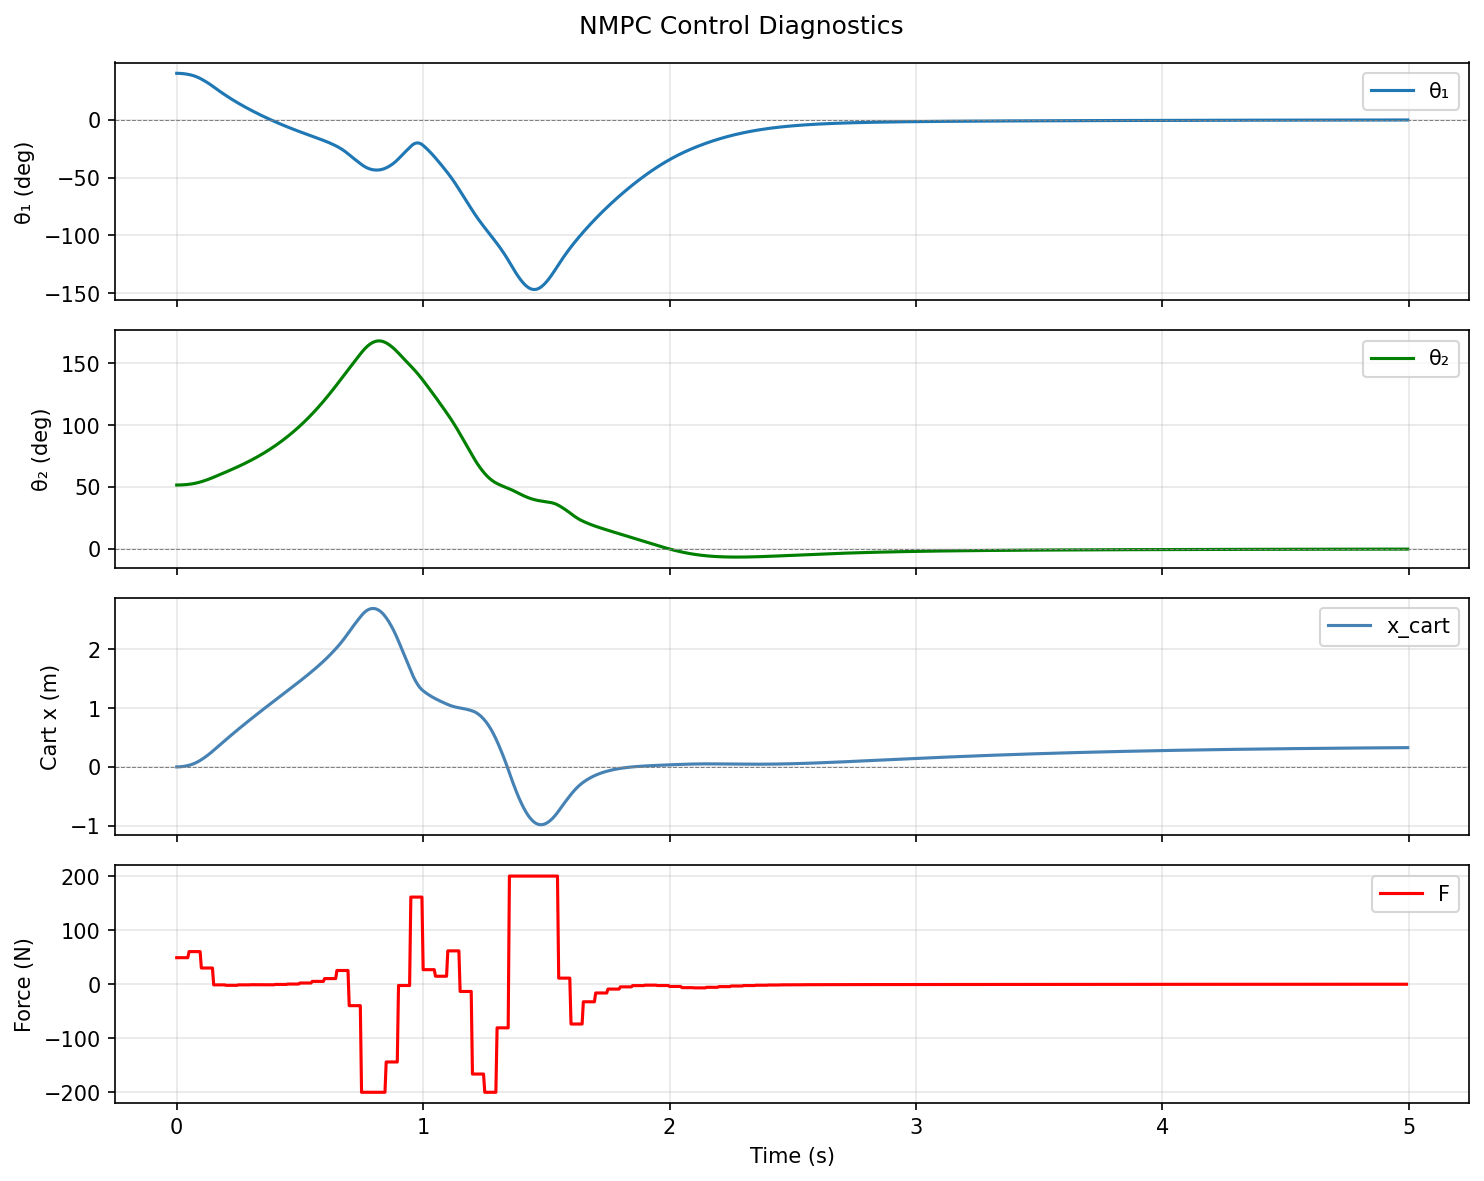
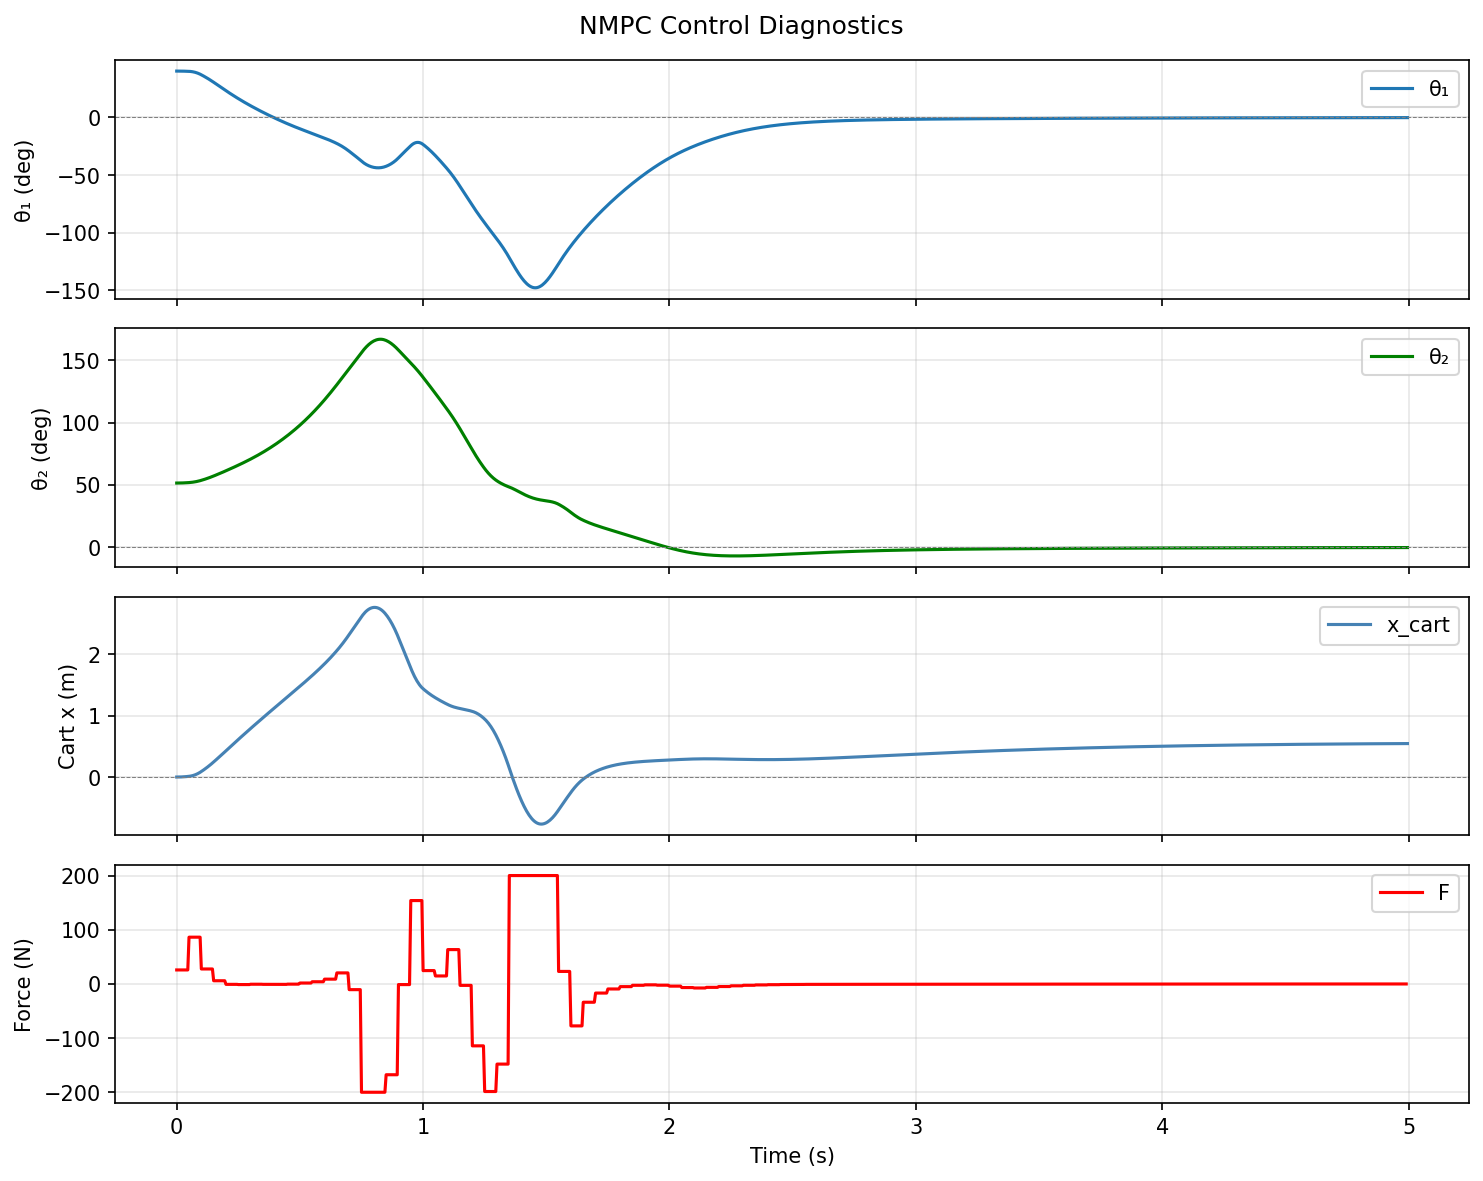
add animation to readme and diagnostic plots

diff --git a/README.md b/README.md
@@ -2,6 +2,8 @@
 
 ![Preview](assets/preview.png)
 
+![Animation](assets/animate.gif)
+
 Simulation and control of an inverted double pendulum on a cart using three different control strategies (PID, LQR, nonlinear MPC).
 
 ## System
@@ -37,6 +39,17 @@ Optimal control using the full nonlinear dynamics. At each control step, optimiz
 | `pid.py` | PID controller class |
 | `lqr.py` | LQR controller class |
 | `nmpc.py` | NMPC controller class |
+
+## Results
+
+### PID
+![PID Diagnostics](assets/pid_diagnostics.png)
+
+### LQR
+![LQR Diagnostics](assets/lqr_diagnostics.png)
+
+### NMPC
+![NMPC Diagnostics](assets/nmpc_diagnostics.png)
 
 ## Dependencies
 